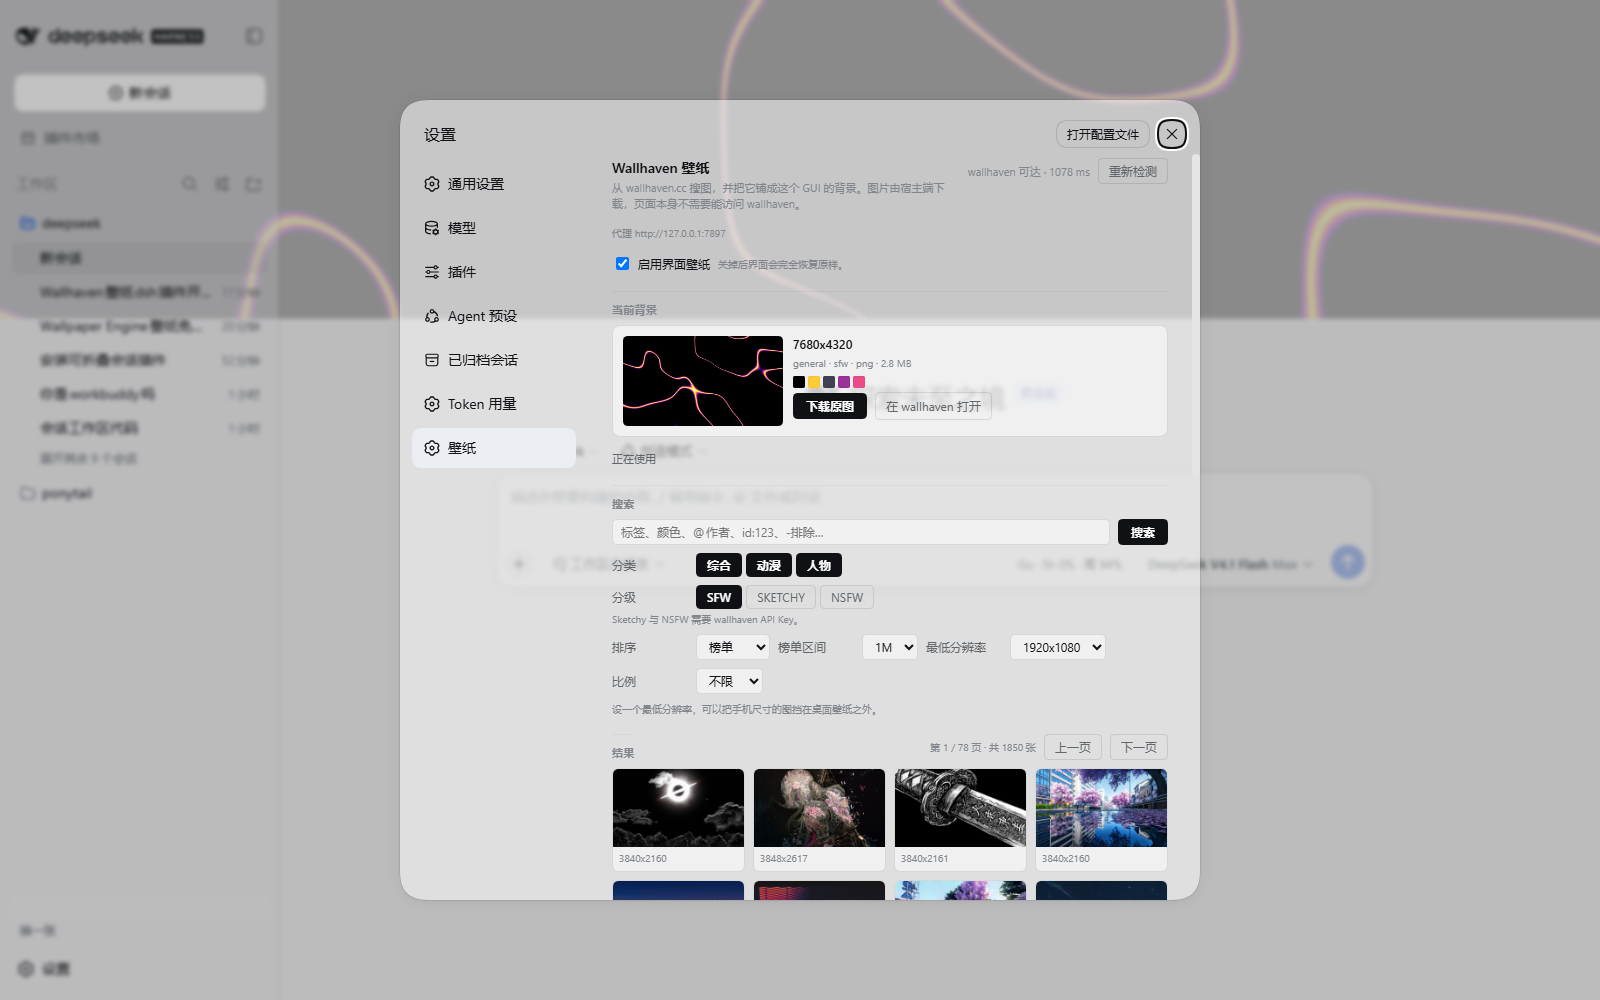
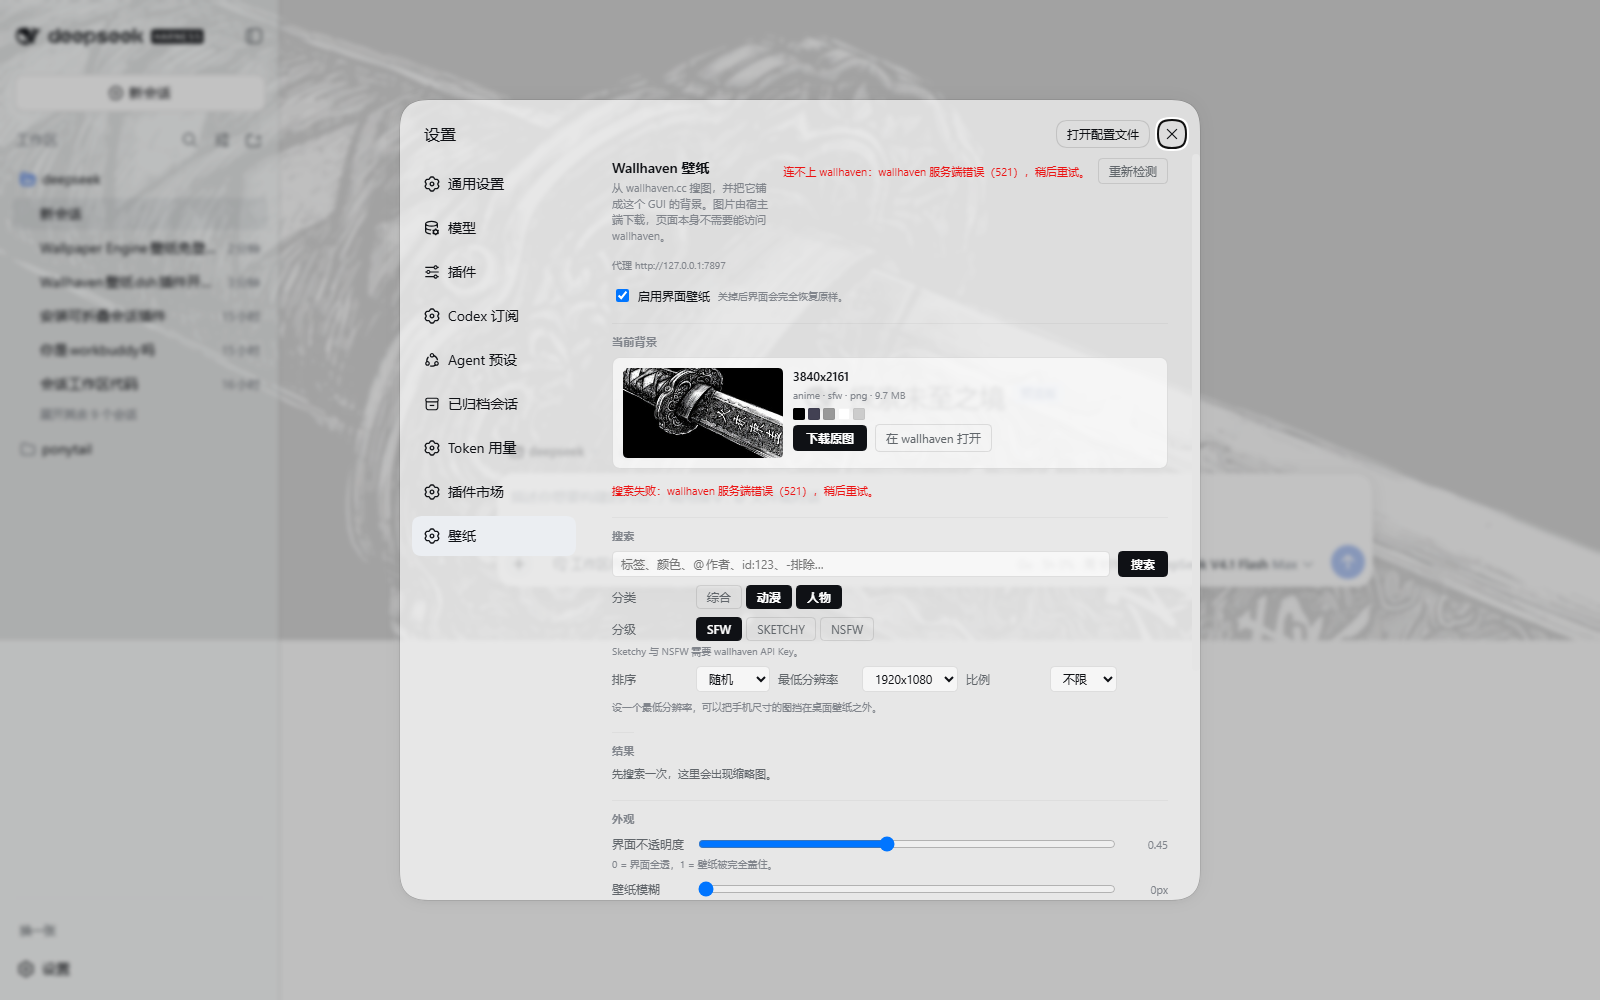
fix(host): Cloudflare 52x 明确说成 wallhaven 自己的故障
线上实测：wallhaven.cc 首页、API、缩略图、短链一起回 521（Web server is down），
只有原图 CDN w.wallhaven.cc 是 200 —— Cloudflare 层是通的，源站挂了。

原来这条只报「wallhaven 服务端错误（521）」，看起来像本机配错了，
而人会去改代理地址，那是改不好的。现在把 52x 单独识别出来，
直说「这是 wallhaven 自己的故障，与你的网络、代理地址都无关」。

diff --git a/lib/host/wallhaven.js b/lib/host/wallhaven.js
@@ -41,6 +41,25 @@ const CACHE_MAX_BYTES = 256 * 1024 * 1024;
 const IMAGE_TIMEOUT_MS = 45000;
 
 /**
+ * Cloudflare's "my origin is not answering" statuses.
+ *
+ * These are the one class of failure where the honest answer is "nothing on
+ * your side is wrong" — worth naming, because the symptom looks exactly like a
+ * broken proxy and the fix people reach for (retyping the proxy address) cannot
+ * possibly help.
+ */
+const CLOUDFLARE_ORIGIN_ERRORS = {
+  520: '源站返回未知错误',
+  521: '源站已下线',
+  522: '连接源站超时',
+  523: '源站不可达',
+  524: '源站响应超时',
+  525: '与源站 SSL 握手失败',
+  526: '源站证书无效',
+  527: 'Railgun 出错',
+};
+
+/**
  * The extension a saved file should carry.
  *
  * The URL's own extension wins: wallhaven names the original file there, and it
@@ -245,6 +264,15 @@ export function createWallhaven(options) {
     }
     if (status === 429) {
       return 'wallhaven 限流（429）：API 每分钟上限 45 次，请稍后再试。';
+    }
+    // Cloudflare's 52x family is emitted when Cloudflare itself is up but
+    // cannot reach wallhaven's origin. Saying so explicitly is worth the extra
+    // sentence: the plain "服务端错误" reads like a local misconfiguration, and
+    // the natural next move — fiddling with the proxy address — cannot help.
+    const cloudflare = CLOUDFLARE_ORIGIN_ERRORS[status];
+    if (cloudflare !== undefined) {
+      return `wallhaven 的源站当前不可用（Cloudflare ${String(status)}：${cloudflare}）—— 这是 wallhaven 自己的故障，`
+        + '与你的网络、代理地址都无关，过一会儿再试即可。';
     }
     if (status >= 500) {
       return `wallhaven 服务端错误（${String(status)}）${message === '' ? '' : `：${message}`}，稍后重试。`;

diff --git a/src/host/wallhaven.js b/src/host/wallhaven.js
@@ -41,6 +41,25 @@ const CACHE_MAX_BYTES = 256 * 1024 * 1024;
 const IMAGE_TIMEOUT_MS = 45000;
 
 /**
+ * Cloudflare's "my origin is not answering" statuses.
+ *
+ * These are the one class of failure where the honest answer is "nothing on
+ * your side is wrong" — worth naming, because the symptom looks exactly like a
+ * broken proxy and the fix people reach for (retyping the proxy address) cannot
+ * possibly help.
+ */
+const CLOUDFLARE_ORIGIN_ERRORS = {
+  520: '源站返回未知错误',
+  521: '源站已下线',
+  522: '连接源站超时',
+  523: '源站不可达',
+  524: '源站响应超时',
+  525: '与源站 SSL 握手失败',
+  526: '源站证书无效',
+  527: 'Railgun 出错',
+};
+
+/**
  * The extension a saved file should carry.
  *
  * The URL's own extension wins: wallhaven names the original file there, and it
@@ -245,6 +264,15 @@ export function createWallhaven(options) {
     }
     if (status === 429) {
       return 'wallhaven 限流（429）：API 每分钟上限 45 次，请稍后再试。';
+    }
+    // Cloudflare's 52x family is emitted when Cloudflare itself is up but
+    // cannot reach wallhaven's origin. Saying so explicitly is worth the extra
+    // sentence: the plain "服务端错误" reads like a local misconfiguration, and
+    // the natural next move — fiddling with the proxy address — cannot help.
+    const cloudflare = CLOUDFLARE_ORIGIN_ERRORS[status];
+    if (cloudflare !== undefined) {
+      return `wallhaven 的源站当前不可用（Cloudflare ${String(status)}：${cloudflare}）—— 这是 wallhaven 自己的故障，`
+        + '与你的网络、代理地址都无关，过一会儿再试即可。';
     }
     if (status >= 500) {
       return `wallhaven 服务端错误（${String(status)}）${message === '' ? '' : `：${message}`}，稍后重试。`;
